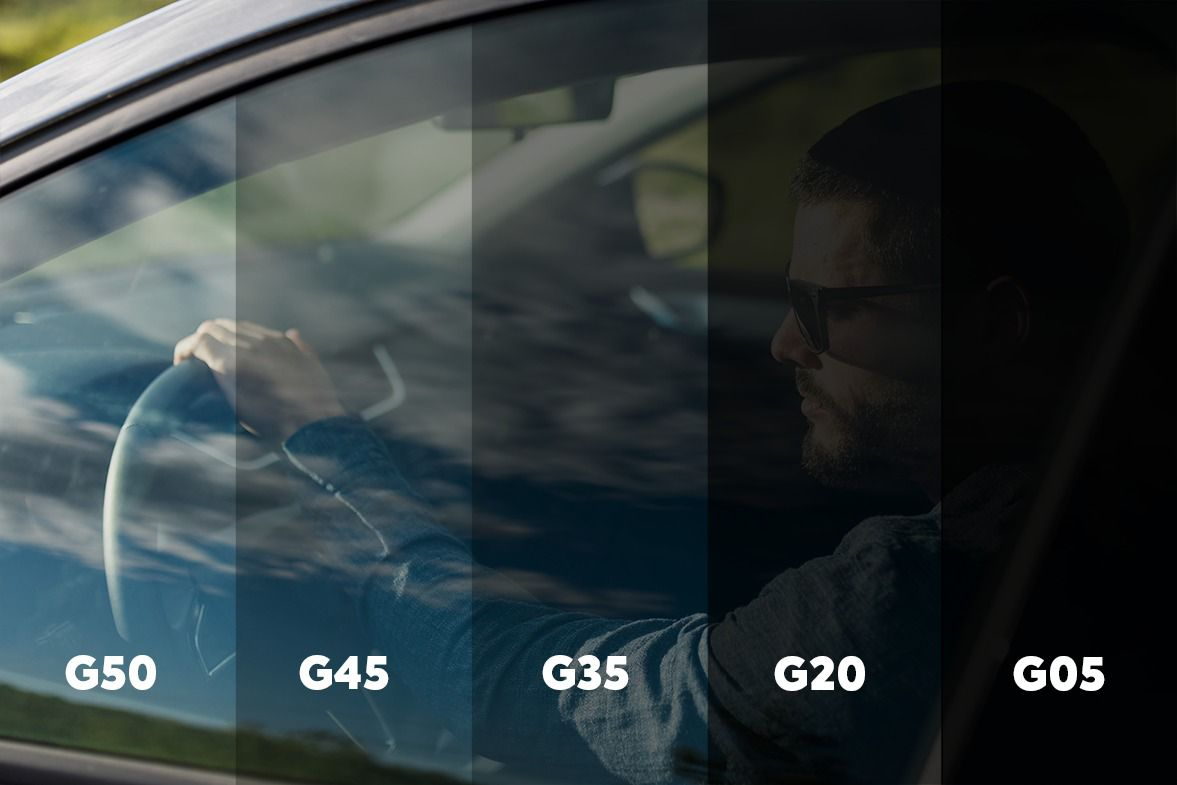
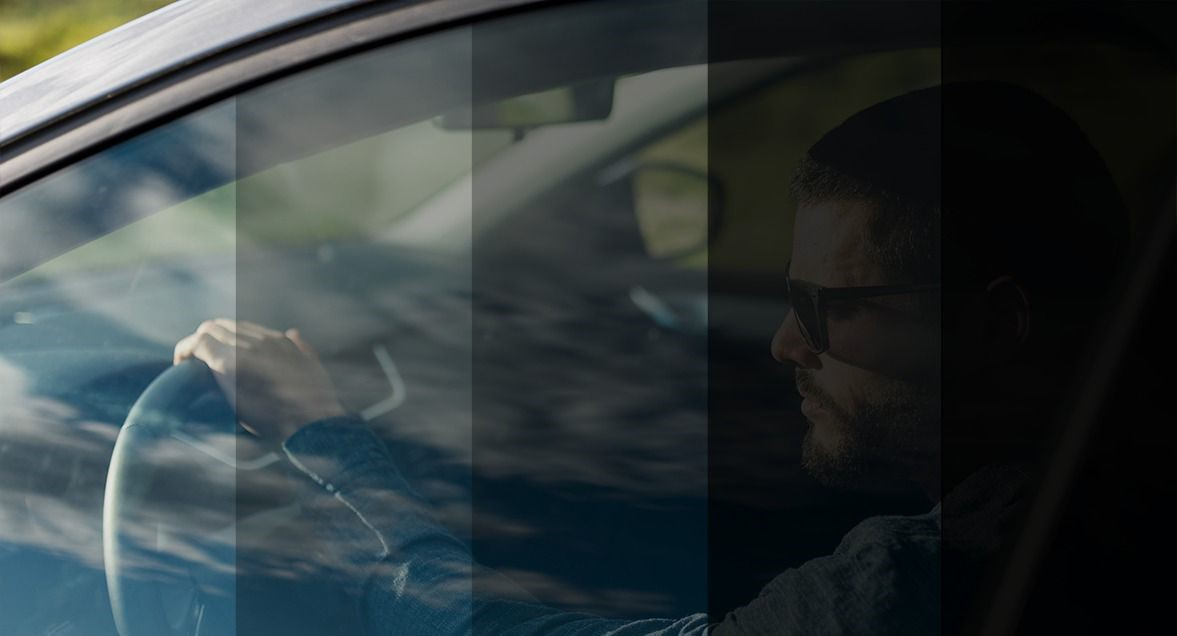
modelos adicionado

diff --git a/src/components/Gallery.jsx b/src/components/Gallery.jsx
@@ -3,17 +3,18 @@ import { AnimatePresence, motion } from 'framer-motion';
 import premium from "../assets/premium.jpeg";
 import alarme from "../assets/alarme.jpeg";
 import acessorio from "../assets/acessorio.jpeg";
+import modelo from "../assets/modelo.jpeg";
 
 const images = [
   {
     title: 'Película Premium',
     subtitle: 'Aproveite!',
-    src: premium,
+    src: modelo,
   },
   {
     title: 'GPS e Detalhes',
     subtitle: 'Tecnologia integrada',
-    src: 'https://images.unsplash.com/photo-1493238792000-8113da705763?auto=format&fit=crop&w=900&q=80',
+    src: premium,
   },
   {
     title: 'Alarme Automotivo',
